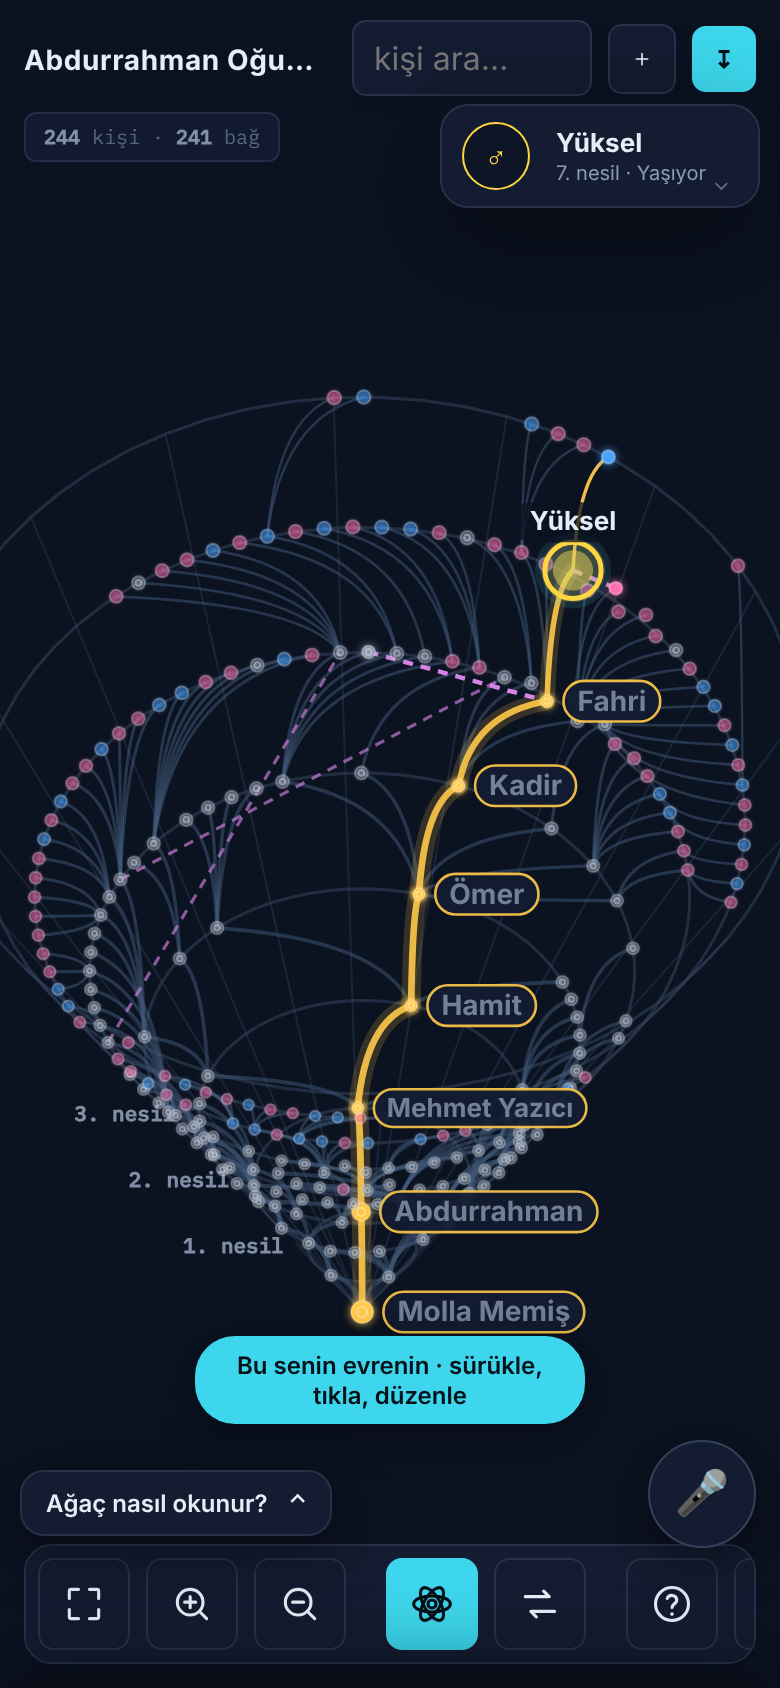
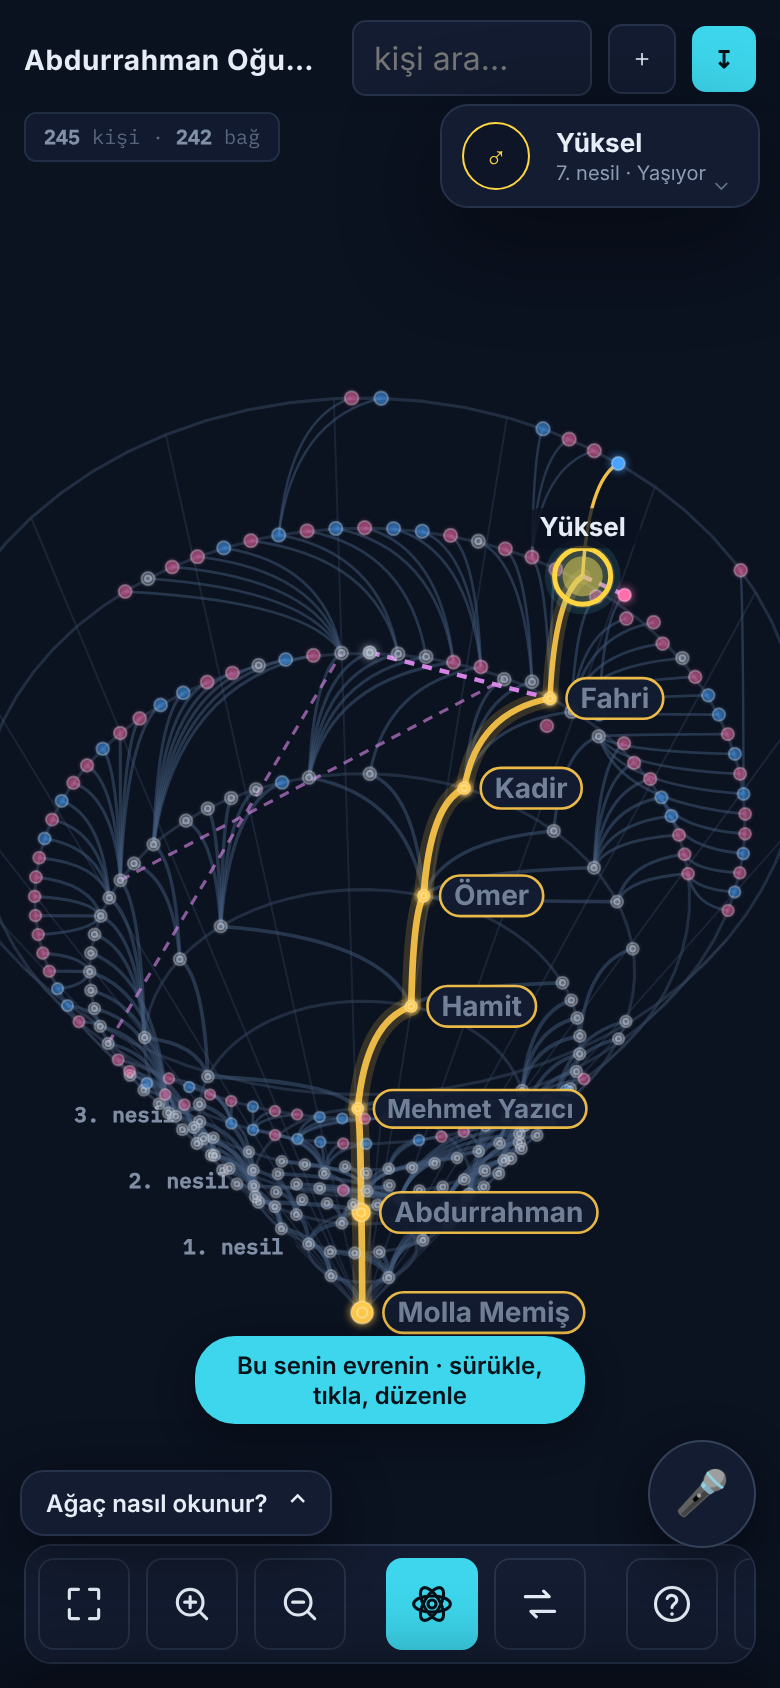
Dokun: yalnızca kişi ve yakın ailesi görünür · uzun bas: ayrıntı
- Tek dokunuş/tık → odak: kişi + anne-baba, kardeş, eş, çocuklar ve
  aralarındaki bağlar görünür, diğerleri gizlenir; kamera aileyi çerçeveler
- Uzun bas (500 ms) → ayrıntı paneli; basılıyken dolan halka geri bildirimi
- Çift tık → ayrıntı (masaüstü) / kademeli açılımda alt ağaç
- Boşluğa dokun / Esc → tüm ağaca animasyonlu dönüş
- Odakta görünen herkesin adı yazılır; isimler ekran dışına, düğümlerin ve
  seçili kişinin adının üstüne taşmaz
- fit → kadrajHesapla + kadrajaGit (animasyonlu kadraj)
- Gizli bağlar tıklanmaz; dokunmada önizleme kartı kaldırıldı
- MIMARI.md §7 güncellendi, docs/ekran/odak-*.png

Claude-Session: https://claude.ai/code/session_01UdmK4qp4HwmB7KccLQdvP6

diff --git a/public/index.html b/public/index.html
@@ -302,7 +302,7 @@ canvas{display:block;position:fixed;inset:0;
 @media (max-width:640px){ .aaUst{padding:14px 16px} .aaGovde{padding:16px} .aaKart{padding:14px} }
 
 /* Ağaç nasıl okunur? — yalnızca tema token'ları */
-.okuma{position:fixed;left:72px;bottom:14px;z-index:9;background:var(--panel);border:1px solid var(--line);
+.okuma{position:fixed;left:72px;bottom:50px;z-index:9;background:var(--panel);border:1px solid var(--line);
   border-radius:12px;box-shadow:0 8px 30px var(--shadow);max-width:230px;font-size:12px;color:var(--text-soft);overflow:hidden}
 .okumaBaslik{display:flex;justify-content:space-between;align-items:center;gap:10px;width:100%;background:none;border:none;
   color:var(--text);font:600 12px Inter,system-ui,sans-serif;padding:8px 12px;cursor:pointer}
@@ -443,7 +443,7 @@ canvas{display:block;position:fixed;inset:0;
     </div>
   </div>
   <div id="acInfo" style="font-size:12px;color:var(--text-soft);margin-top:11px;line-height:1.6;display:none"></div>
-  <div id="acFoot" style="font-size:10px;color:var(--muted);margin-top:11px;font-family:'IBM Plex Mono',monospace">düzenlemek için tekrar dokun</div>
+  <div id="acFoot" style="font-size:10px;color:var(--muted);margin-top:11px;font-family:'IBM Plex Mono',monospace">ayrıntı için uzun bas</div>
   <!-- mobilde kart kompakt duruyor; bu ok detayları açar/kapatır -->
   <div id="acToggle" style="display:none;position:absolute;right:8px;bottom:4px;
     font-size:11px;color:var(--muted);cursor:pointer;padding:2px 6px;line-height:1">⌄</div>
@@ -1238,12 +1238,32 @@ function s2w(sx,sy){
 // dahil) arayüz şeritleri dışında kalan alana ortalar. Eskiden dünya koordinatlarından
 // kaba bir tahmin yapılıyordu; koni masaüstünde altta kesiliyor, mobilde sola kayıp
 // üstte büyük bir boşluk bırakıyordu.
+const KADRAJ_GECIS_MS = 480;   // odak aç/kapa kamera geçişi
+const KADRAJ_ODAK_PAY = 0.8;   // odakta aile ekranı tam doldurmasın, isimlere yer kalsın
 const KADRAJ_PAY = {
   masa:  { sol:76, sag:28, ust:76, alt:52, doluluk:0.94, maxOlcek:{koni:1.1, duz:1.3} },
   mobil: { sol:10, sag:10, ust:104, alt:92, doluluk:0.96, maxOlcek:{koni:1.1, duz:1.3} },
 };
 function fit(){
-  if(!nodes.length)return;
+  const k=kadrajHesapla(); if(!k) return;
+  scale=k.scale; ox=k.ox; oy=k.oy;
+}
+// Hedef kadraja yumuşak geçiş (odak açılıp kapanınca)
+let _kadrajAnim=0;
+function kadrajaGit(sure){
+  const k=kadrajHesapla(); if(!k) return;
+  const dur=(sure==null? KADRAJ_GECIS_MS : sure), t0=performance.now(), id=++_kadrajAnim;
+  const s0=scale, x0=ox, y0=oy;
+  (function adim(now){
+    if(id!==_kadrajAnim) return;            // yeni geçiş başladıysa bunu bırak
+    let t=Math.min(1,(now-t0)/dur); t=t<.5?2*t*t:1-Math.pow(-2*t+2,2)/2;
+    scale=s0+(k.scale-s0)*t; ox=x0+(k.ox-x0)*t; oy=y0+(k.oy-y0)*t;
+    if(t<1) requestAnimationFrame(adim);
+  })(t0);
+}
+// Görünür düğümlerin ekrana sığdığı kadrajı HESAPLAR (uygulamaz).
+function kadrajHesapla(){
+  if(!nodes.length)return null;
   // Yalnızca görünür düğümleri kadraja al: nesil aralığı daraltıldığında ya da
   // kademeli açılımda ekran boş alana zoomlanmasın.
   const kadraj = (typeof nodeVisible==="function") ? nodes.filter(nodeVisible) : nodes;
@@ -1255,19 +1275,19 @@ function fit(){
       if(p.x<x0)x0=p.x; if(p.x>x1)x1=p.x; if(p.y<y0)y0=p.y; if(p.y>y1)y1=p.y; }
     return {x0,x1,y0,y1}; };
   // Salınım (±yaw) kadrajı oynatmasın: dinlenme açısında ölç
-  const yawSakla=yaw; yaw=yawRest;
+  const yawSakla=yaw, sSakla=scale, xSakla=ox, ySakla=oy; yaw=yawRest;
   ox=0; oy=0; scale=1;
   const maxS = coneMode ? P.maxOlcek.koni : P.maxOlcek.duz;
   // perspektif ölçeğe bağlı → birkaç adımda yakınsar
   for(let i=0;i<4;i++){
     const k=kutu();
-    const f=Math.min(alanW/Math.max(1,k.x1-k.x0), alanH/Math.max(1,k.y1-k.y0))*P.doluluk;
+    const f=Math.min(alanW/Math.max(1,k.x1-k.x0), alanH/Math.max(1,k.y1-k.y0))*P.doluluk*(BLOOM.focusIds?KADRAJ_ODAK_PAY:1);
     scale=Math.max(0.05, Math.min(maxS, scale*f));
   }
   const k=kutu();
-  ox = P.sol + alanW/2 - (k.x0+k.x1)/2;
-  oy = P.ust + alanH/2 - (k.y0+k.y1)/2;
-  yaw=yawSakla;
+  const sonuc={ scale, ox: P.sol + alanW/2 - (k.x0+k.x1)/2, oy: P.ust + alanH/2 - (k.y0+k.y1)/2 };
+  yaw=yawSakla; scale=sSakla; ox=xSakla; oy=ySakla;
+  return sonuc;
 }
 
 // ============================ BLOOM ÖZELLİKLERİ ============================
@@ -1314,6 +1334,8 @@ const BLOOM = {
 // ---- görünürlük: kademeli açılım ∩ nesil aralığı ----
 function nodeVisible(n){
   if(BLOOM.visible && !BLOOM.visible.has(n.id)) return false;
+  // ODAK: bir kişiye dokununca yalnızca o ve yakınları görünür (diğerleri gizli)
+  if(BLOOM.focusIds && !BLOOM.focusIds.has(n.id)) return false;
   const d = (n._depth==null? 0 : n._depth);
   if(d < BLOOM.genLo || d > BLOOM.genHi) return false;
   return true;
@@ -1377,15 +1399,22 @@ function toggleExpand(n){
 }
 
 // ---- ÖZELLİK 3: odak modu ----
+// Yakın aile: kendisi + anne-baba + kardeşler + eş(ler) + çocuklar (anne bağları dahil)
 function odakAc(id){
   const s=new Set([id]);
   for(const nb of (ADJ.get(id)||[])) s.add(nb);
+  if(typeof relativesOf==="function") relativesOf(id).forEach(x=>s.add(x));
   BLOOM.focusIds=s;
   const b=document.getElementById("focusBtn"); if(b) b.classList.add("on");
+  if(typeof updateStatus==="function") updateStatus();
+  kadrajaGit();      // aileyi çerçevele
 }
 function odakKapat(){
+  if(!BLOOM.focusIds) return;
   BLOOM.focusIds=null;
   const b=document.getElementById("focusBtn"); if(b) b.classList.remove("on");
+  if(typeof updateStatus==="function") updateStatus();
+  kadrajaGit();      // tüm ağaca dön
 }
 
 // ---- ÖZELLİK 4: nesil aralığı ----
@@ -2081,8 +2110,9 @@ function draw(){
     const isActive = (n===activeNode && (n._grow||0)>0.3);   // ismi aktif blokta yazılıyor
     if(!isActive){
       // ÖNCELİK: 0 bakan/seçili/üzerinde · 1 soy hattı (köke kadar) · 2 bakanın yakınları · 3 diğerleri
+      // Odakta (bir kişiye dokununca) görünen herkesin adı yazılır — aile tek bakışta okunsun.
       const oncelik = (isViewer||sel||hov) ? 0
-                    : (viewerId && onSpine) || (!viewerId && isFounder) ? 1
+                    : BLOOM.focusIds || (viewerId && onSpine) || (!viewerId && isFounder) ? 1
                     : yakinKume.has(n.id) ? 2 : 3;
       // Uzakta yalnızca hikâyeyi anlatan isimler; yakınlaştıkça herkes.
       const goster = oncelik===0 || oncelik===1
@@ -2092,6 +2122,20 @@ function draw(){
     }
   });
   isimleriYerlestir(etiketAdaylari);
+
+  // ——— UZUN BAS geri bildirimi: basılı tutulan düğümün çevresinde dolan halka
+  if(basiliDugum && basimT && moved<=TAP_SLOP){
+    const gecen=Date.now()-basimT;
+    if(gecen>UZUN_BAS_MS*0.25){
+      const pr=project(basiliDugum.x,basiliDugum.y,nodeHeight(basiliDugum));
+      const r=radius(basiliDugum)*zoomK()*pr.k+9;
+      const oran=Math.min(1,gecen/UZUN_BAS_MS);
+      ctx.lineCap="round"; ctx.lineWidth=3; ctx.strokeStyle=getVar("--accent");
+      ctx.globalAlpha=0.25; ctx.beginPath(); ctx.arc(pr.x,pr.y,r,0,6.283); ctx.stroke();
+      ctx.globalAlpha=0.95; ctx.beginPath(); ctx.arc(pr.x,pr.y,r,-Math.PI/2,-Math.PI/2+oran*6.283); ctx.stroke();
+      ctx.globalAlpha=1; ctx.lineCap="butt";
+    }
+  }
 
   // ——— AKTİF DÜĞÜM: genişleme + fotoğraf + detay halkası (Bloom tarzı) ———
   nodes.forEach(n=>{ // grow animasyonu
@@ -2145,7 +2189,17 @@ function yakinlariGetir(){
 // Öncelik 0 (bakan, seçili, üzerinde gezilen) her zaman çizilir.
 function isimleriYerlestir(adaylar){
   adaylar.sort((a,b)=> a.oncelik-b.oncelik || b.depthK-a.depthK);
-  const yerlesen=[];
+  // İsimler düğümlerin ve seçili kişinin (aktif blokta yazılan) adının üstüne binmesin:
+  // bu alanlar baştan "dolu" sayılır.
+  const yerlesen=adaylar.map(c=>({x:c.p.x-c.r-2, y:c.p.y-c.r-2, w:2*c.r+4, h:2*c.r+4, dugum:true}));
+  if(activeNode && (activeNode._grow||0)>0.3 && nodeVisible(activeNode)){
+    const ap=project(activeNode.x,activeNode.y,nodeHeight(activeNode));
+    const ar=radius(activeNode)*zoomK()*ap.k;
+    ctx.font="700 13px Inter, system-ui, sans-serif";
+    const aw=ctx.measureText(dispName(activeNode.name)).width+14;
+    yerlesen.push({x:ap.x-ar-6, y:ap.y-ar-6, w:2*ar+12, h:2*ar+12, dugum:true});
+    yerlesen.push({x:ap.x-aw/2, y:ap.y-ar-24, w:aw, h:20, dugum:true});
+  }
   const cakisir=k=>yerlesen.some(b=>k.x<b.x+b.w && k.x+k.w>b.x && k.y<b.y+b.h && k.y+k.h>b.y);
   const bg=getVar("--panel"), cizgi=getVar("--line"), soy=getVar("--spine");
   for(const c of adaylar){
@@ -2162,8 +2216,13 @@ function isimleriYerlestir(adaylar){
       {x:p.x-w/2,       y:p.y+ara},          // alt
       {x:p.x-w/2,       y:p.y-ara-h},        // üst
     ];
+    // Önce ekrana tam sığan ve çakışmayan konum; sığan yoksa ekrana kırpılmış ilk boş konum
+    const EK=4;
+    const sigar=k=>k.x>=EK && k.x+w<=innerWidth-EK && k.y>=EK && k.y+h<=innerHeight-EK;
+    const kirp=k=>({x:Math.min(Math.max(EK,k.x),innerWidth-EK-w), y:Math.min(Math.max(EK,k.y),innerHeight-EK-h), w, h});
     let kutu=null;
-    for(const k of konumlar){ const aday={x:k.x,y:k.y,w,h}; if(oncelik===0 || !cakisir(aday)){ kutu=aday; break; } }
+    for(const k of konumlar){ const aday={x:k.x,y:k.y,w,h}; if(sigar(aday) && (oncelik===0 || !cakisir(aday))){ kutu=aday; break; } }
+    if(!kutu) for(const k of konumlar){ const aday=kirp(k); if(oncelik===0 || !cakisir(aday)){ kutu=aday; break; } }
     if(!kutu) continue;
     yerlesen.push(kutu);
     const dimmed=(highlightSet.size&&!hl&&!isFounder);
@@ -2217,6 +2276,7 @@ function pickEdge(sx,sy){
   let best=null, bd=TOL;
   const check=(a,b,type)=>{
     if(!a||!b) return;
+    if(!nodeVisible(a) || !nodeVisible(b)) return;   // gizli (odak dışı) bağ tıklanmaz
     const pa=w2sn(a), pb=w2sn(b);
     const dx=pb.x-pa.x, dy=pb.y-pa.y;
     const L2=dx*dx+dy*dy; if(L2<1) return;
@@ -2296,8 +2356,11 @@ function showRelationCard(edge, mx, my){
   highlightSet.clear(); highlightSet.add(info.a.id); highlightSet.add(info.b.id);
 }
 function hideRelationCard(){ const c=document.getElementById("relCard"); if(c) c.style.display="none"; }
-// BLOOM: uzun bas ölçümü (mobilde çift tık yerine uzun bas = aç/kapat)
-let basimT=0;
+// UZUN BAS → kişi ayrıntısı. Parmak kaldırılmadan, süre dolunca açılır; basılı
+// tutarken düğümün çevresinde dolan halka geri bildirim verir (draw içinde).
+const UZUN_BAS_MS=500;
+let basimT=0, uzunBasT=null, uzunBasildi=false, basiliDugum=null;
+function uzunBasIptal(){ clearTimeout(uzunBasT); uzunBasT=null; basiliDugum=null; }
 function basiliSure(now){ return basimT ? (now-basimT) : 0; }
 canvas.addEventListener("pointerdown",e=>{ down={x:e.clientX,y:e.clientY}; moved=0;
   basimT=Date.now();
@@ -2311,9 +2374,22 @@ canvas.addEventListener("pointerdown",e=>{ down={x:e.clientX,y:e.clientY}; moved
   // dragNode artık "basılan düğüm" demek; konumu değiştirilmiyor. Konumlar
   // zaten hiçbir yere kaydedilmiyor (currentGraphJSON x/y göndermez),
   // layoutSpiral her yüklemede yeniden hesaplıyor — sürükleme kalıcı değildi.
+  uzunBasildi=false; uzunBasIptal();
+  if(hit && !BLOOM.pathMode){
+    basiliDugum=hit;
+    uzunBasT=setTimeout(()=>{
+      if(down && moved<=TAP_SLOP && dragNode===hit){
+        uzunBasildi=true; basiliDugum=null;
+        document.getElementById("hoverCard").style.display="none";
+        try{ navigator.vibrate && navigator.vibrate(12); }catch(_){}
+        focusCenter(hit); openPanel(hit);
+      }
+    }, UZUN_BAS_MS);
+  }
   if(hit){ dragNode=hit; canvas.setPointerCapture(e.pointerId);
-    // dokunmatik/mobil: düğüme dokununca detay kartını göster
-    if(e.pointerType==="touch"){ hoverNode=hit; updateHoverCard(hit, e.clientX, e.clientY); }
+    // Basınca küçük önizleme kartı kapanır: uzun bas halkası görünsün. Dokunmada
+    // kart artık açılmıyor — dokunuş aileyi gösterir, uzun bas ayrıntıyı açar.
+    document.getElementById("hoverCard").style.display="none";
   }
   panning=true;   // her durumda pan'e hazır; TAP_SLOP aşılırsa devreye girer
   sonPX=e.clientX; sonPY=e.clientY;   // delta hesabı için başlangıç
@@ -2331,6 +2407,7 @@ canvas.addEventListener("pointermove",e=>{
   sonPX=e.clientX; sonPY=e.clientY;
   mouse={x:e.clientX,y:e.clientY};
   if(down) moved+=Math.abs(dx)+Math.abs(dy);
+  if(moved>TAP_SLOP && uzunBasT) uzunBasIptal();   // sürükleme uzun bas sayılmaz
   // Sürükleme her zaman pan/döndürme — düğüm taşıma YOK.
   // TAP_SLOP eşiği aşılmadan kamerayı oynatmıyoruz ki tık titremesi pan sayılmasın.
   if(down && panning && moved>TAP_SLOP){
@@ -2384,15 +2461,14 @@ function updateHoverCard(n,mx,my){
 }
 canvas.addEventListener("pointerleave",()=>{ hoverNode=null; document.getElementById("hoverCard").style.display="none"; });
 let lastTap=0, lastTapNode=null;
+const ODAK_IPUCU_MAX=3; let odakIpucuSayac=0;   // ipucu oturumda ilk birkaç dokunuşta
+canvas.addEventListener("pointercancel",()=>{ uzunBasIptal(); uzunBasildi=false; });
 canvas.addEventListener("pointerup",e=>{
+  uzunBasIptal();
+  if(uzunBasildi){ uzunBasildi=false; dragNode=null; panning=false; down=null; basimT=0; return; }
   if(dragNode){
     if(moved<=TAP_SLOP){ // tıklama (hareket eşiği altında kaldıysa)
       const now=Date.now();
-      // BLOOM uzun bas (~450ms): kademeli açılımda alt ağacı aç/kapat.
-      // Tek tık seçim davranışını bozmaz; sürükleme TAP_SLOP ile ayrılıyor.
-      if(BLOOM.visible && basiliSure(now) > 450){
-        toggleExpand(dragNode); dragNode=null; down=null; basimT=0; return;
-      }
       // BLOOM yol bulma modu: birinci tık A, ikinci tık B
       if(BLOOM.pathMode){
         if(!BLOOM.pathA){
@@ -2408,21 +2484,20 @@ canvas.addEventListener("pointerup",e=>{
       }
       if(basiliSure(now) <= TAP_TIME){
         if(now-lastTap<320 && lastTapNode===dragNode){
-          // ÇİFT TIK → kişiyi merkeze al ve yakınlarıyla birlikte göster.
-          // (Eskiden düzenleme panelini açıyordu; panel artık yalnızca "zaten
-          //  merkezdeyken tekrar dokun" ile açılıyor — o yol korunuyor.)
-          // Katmandan bağımsız: 2B ve 3B modda aynı çalışır.
-          focusCenter(dragNode);
-          merkezeAl(dragNode);
-          odakAc(dragNode.id);
-          showHint(`${dispName(dragNode.name)} merkezde · yakınları vurgulu`);
+          // ÇİFT TIK: kademeli açılımda alt ağacı aç/kapat; değilse ayrıntı
+          // (masaüstünde uzun basmaya alternatif).
+          if(BLOOM.visible) toggleExpand(dragNode); else openPanel(dragNode);
           lastTap=0; lastTapNode=null;
-        } else if(dragNode===activeNode){ // zaten merkezdeyse tekrar dokunuş → panel (mobil dostu)
-          openPanel(dragNode); lastTap=now; lastTapNode=dragNode;
-        } else { // tek tık → merkeze al + genişlet + detay halkası
-          focusCenter(dragNode); lastTap=now; lastTapNode=dragNode;
-          // Odak modu açıksa seçim onu takip eder (mod kendiliğinden açılmaz).
-          if(BLOOM.focusIds) odakAc(dragNode.id);
+        } else {
+          // TEK DOKUNUŞ → yalnızca bu kişi ve yakın ailesi görünür, kamera aileyi çerçeveler
+          // (focusCenter kullanılmıyor: onun kamera hareketi kadrajaGit ile yarışırdı)
+          activeNode=dragNode; highlightFor(dragNode);
+          document.getElementById("hoverCard").style.display="none";
+          showActiveCard(dragNode);
+          odakAc(dragNode.id);
+          if(odakIpucuSayac++ < ODAK_IPUCU_MAX)
+            showHint(`${dispName(dragNode.name)} ve ailesi · ayrıntı için uzun bas · tüm ağaç için boşluğa dokun`);
+          lastTap=now; lastTapNode=dragNode;
         }
       }
     }
@@ -4723,8 +4798,8 @@ function startAs(id){
   // Yanlış vaat vermek yerine ne yapabileceğini söylüyoruz.
   const yetkili = !!sessionToken || isAdmin;
   if(yetkili){
-    showHint(id ? "Bu senin evrenin · sürükle, tıkla, düzenle"
-                : "Nesil halkaları · tıkla-seç · düzenle");
+    showHint(id ? "Bu senin evrenin · bir kişiye dokun: ailesi · uzun bas: ayrıntı"
+                : "Bir kişiye dokun: ailesi · uzun bas: ayrıntı");
   } else {
     showHint(id ? `Hoş geldin ${dispName((byId[id]||{}).name||"")} · görüntüleme modu — düzenlemek için aile şifresiyle gir`
                 : "Görüntüleme modu · düzenlemek için aile şifresiyle gir");

diff --git a/MIMARI.md b/MIMARI.md
@@ -310,13 +310,21 @@ tam/baştan/içinde eşleşme hiç tutmazsa. Gerçek veriyle sınandı:
 ## 7. Etkileşim modeli
 
 ```
-tık (moved ≤ TAP_SLOP, süre ≤ TAP_TIME) → seç + merkeze yaklaştır
-çift tık                                → merkeze al + yakınlarını göster
-merkezdeyken tekrar dokun               → düzenleme paneli
-uzun bas (~450ms, kademeli açılımda)    → alt ağacı aç/kapat
-sürükleme                               → pan / yaw döndürme
-iki parmak                              → pinch zoom
+dokun / tık (moved ≤ TAP_SLOP)    → ODAK: yalnızca o kişi + yakın ailesi (anne-baba,
+                                    kardeş, eş, çocuk) ve aralarındaki bağlar görünür;
+                                    kamera aileyi çerçeveler (kadrajaGit), adlar yazılır
+uzun bas (UZUN_BAS_MS = 500ms)    → ayrıntı paneli (parmak kaldırılmadan açılır;
+                                    basılıyken düğüm çevresinde dolan halka)
+çift tık                          → ayrıntı (masaüstü kolaylığı) · kademeli açılımda alt ağaç aç/kapat
+boşluğa dokun / Esc               → odağı kapat, tüm ağaca dön (animasyonlu)
+sürükleme                         → pan / yaw döndürme (uzun bası iptal eder)
+iki parmak                        → pinch zoom
 ```
+
+Odak `nodeVisible()` içinde uygulanır: odak dışı düğüm ve bağlar çizilmez, tıklanmaz
+(`pick`, `pickEdge`) ve kadraj yalnızca görünenleri çerçeveler. Durum çubuğu
+"7 / 245 kişi · filtreli" gösterir. Dokunmada küçük önizleme kartı (hoverCard) artık
+açılmıyor — uzun bas halkasını örtüyordu ve dokunuş zaten aileyi gösteriyor.
 
 `TAP_SLOP=10 px`, `TAP_TIME=600 ms`.
 
